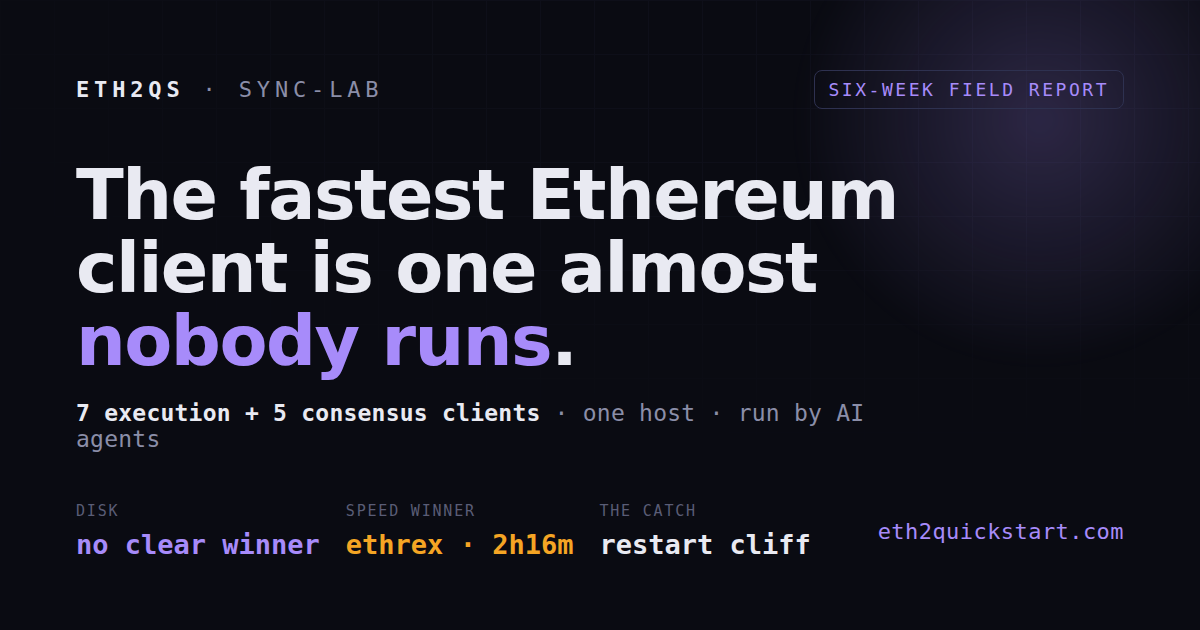
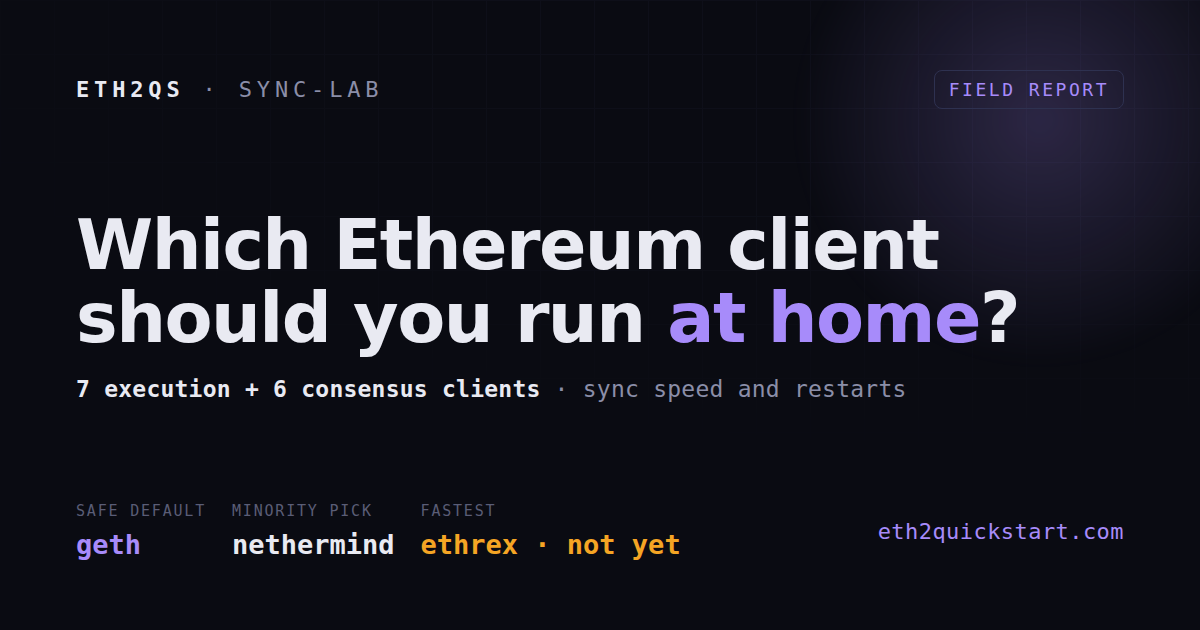
fix(blog): refresh bakeoff OG card and scope the minimal-history disk figure
- Regenerate og-bakeoff.png and ogAlt for the new framing (old card said
  "fastest client nobody runs", six-week, 7+5 clients).
- Short-answer table names the four other consensus clients instead of
  "all five we compared", which read as contradicting the intro's six.
- Minimal-history nethermind: ~250-280 GiB right after sync, ~345 GiB
  54 days later (2026-09-26 du of the live node); recorded in the arbiter
  and mirrored in CLIENT_BAKEOFF_BLOG.md.

diff --git a/frontend/app/blog/ethereum-client-bakeoff/page.tsx b/frontend/app/blog/ethereum-client-bakeoff/page.tsx
@@ -59,11 +59,11 @@ export default function EthereumClientBakeoffPage() {
                 <tr>
                   <td className="py-3 align-top text-muted-foreground">A less common client, or a smaller disk</td>
                   <td className="py-3 align-top text-muted-foreground"><strong className="text-foreground">nethermind</strong></td>
-                  <td className="py-3 align-top text-muted-foreground">Recovered from every restart gap we tried (with full history on). The installer&apos;s default setup is ~250–280 GiB right after sync.</td>
+                  <td className="py-3 align-top text-muted-foreground">Recovered from every restart gap we tried (with full history on). The installer&apos;s default setup used ~250–280 GiB right after sync and ~345 GiB 54 days later.</td>
                 </tr>
                 <tr>
                   <td className="py-3 align-top text-muted-foreground">A consensus client</td>
-                  <td className="py-3 align-top text-muted-foreground"><strong className="text-foreground">lighthouse</strong> (or any of the five we compared)</td>
+                  <td className="py-3 align-top text-muted-foreground"><strong className="text-foreground">lighthouse</strong> (or lodestar, grandine, teku, nimbus)</td>
                   <td className="py-3 align-top text-muted-foreground">All five synced in minutes without crashing. They differ mainly in disk use.</td>
                 </tr>
                 <tr>
@@ -196,7 +196,7 @@ export default function EthereumClientBakeoffPage() {
                 </tr>
                 <tr>
                   <td className="py-3 align-top text-muted-foreground">nethermind, minimal history (installer default)</td>
-                  <td className="py-3 align-top text-muted-foreground">~250–280 GiB right after sync</td>
+                  <td className="py-3 align-top text-muted-foreground">~250–280 GiB right after sync; ~345 GiB after 54 days</td>
                   <td className="py-3 align-top text-muted-foreground">no old blocks or receipts</td>
                 </tr>
               </tbody>

diff --git a/frontend/lib/articles.ts b/frontend/lib/articles.ts
@@ -43,7 +43,7 @@ export const ARTICLES: Article[] = [
       'Which Ethereum clients are worth running at home? We tried seven execution and six consensus clients on one machine. Short answer: geth or nethermind, with lighthouse.',
     eyebrow: 'Client research',
     ogImage: '/og-bakeoff.png',
-    ogAlt: 'The fastest Ethereum client is one almost nobody runs — a six-week client bake-off',
+    ogAlt: 'Which Ethereum client should you run at home? Seven execution and six consensus clients compared on sync speed and restarts',
     headline: 'Ethereum Client Bake-off',
     datePublished: '2026-07-19',
     dateModified: '2026-10-08',

diff --git a/frontend/scripts/gen-og-cards.py b/frontend/scripts/gen-og-cards.py
@@ -97,10 +97,10 @@ VARIANTS = {
         '<b>7 execution + 5 consensus clients</b> · one host · run by AI agents',
         [("Disk", "no clear winner", "acc"), ("Speed winner", "ethrex · 2h16m", "sig"), ("The catch", "restart cliff", "")]),
     "og-bakeoff": card(
-        "Six-week field report",
-        'The fastest Ethereum client is one almost <span class="hot">nobody runs</span>.',
-        '<b>7 execution + 5 consensus clients</b> · one host · run by AI agents',
-        [("Disk", "no clear winner", "acc"), ("Speed winner", "ethrex · 2h16m", "sig"), ("The catch", "restart cliff", "")]),
+        "Field report",
+        'Which Ethereum client should you run <span class="hot">at home</span>?',
+        '<b>7 execution + 6 consensus clients</b> · sync speed and restarts',
+        [("Safe default", "geth", "acc"), ("Minority pick", "nethermind", ""), ("Fastest", "ethrex · not yet", "sig")]),
     "og-how-we-tested": card(
         "Methodology",
         'How we ran a six-week bake-off <span class="hot">with Claude</span>.',

diff --git a/docs/CLIENT_BAKEOFF_RESULTS.md b/docs/CLIENT_BAKEOFF_RESULTS.md
@@ -84,7 +84,7 @@ _Complete (run_id `client-bakeoff-stageB-2026-06-23`). Runs were sequential, one
 | geth__prysm | ✅ synced | ~8h28m | **1.13 TiB** — geth 1,245,128,582,247 B + prysm 654,985,849 B | Baseline. snap-sync EL hands prysm an already-validated head, so there is no large optimistic gap to close. fully_synced=yes, no crash. |
 | erigon__prysm | ❌ no-sync | n/a (terminated) | ~1.21 TiB\* — erigon 1,333,017,755,599 B + prysm 1,646,160,347 B | \*Partial, captured at a near-tip **frozen** head — NOT a clean synced datadir. erigon3 OtterSync + checkpoint-synced prysm deadlock: the EL execution head freezes a few thousand blocks behind tip while the beacon stays `is_optimistic=true`; neither side issues the `forkchoiceUpdated` that would close the >96-block backward-download gap. Raising the CL CPU cap 200%→600% advanced the head ~5k blocks then re-froze — confirming a genuine gap-close deadlock, not resource starvation. Terminated per operator decision ("record no-sync, move on"). See artifact `findings.md`. |
 | reth__prysm | ⏳ capped (72h) | n/a | ~0.98 TiB\* — reth 1,064,695,764,125 B + prysm 12,468,756,540 B | \*Partial — window-capped at Execution stage block 11,970,965/25,395,872 (47% by block count, ~21% gas-weighted; ended 2026-06-28T16:53:20Z). reth `--full` is the only no-snap EL; sequential full block execution too slow to finish in 72h under caps. Clean SIGTERM stop (ExecMainStatus=0), no crash, 578 samples. Footprint recovered from `samples.jsonl` last entry (16:52:46Z) — `disk-final.tsv` absent due to harness capped-path gap (fixed commit `af0d77f`). Extrapolation: at ~21% gas-exec already ~87% of geth's 1.13 TiB; projected final `--full` footprint ~1.1–1.2 TiB. |
-| nethermind__prysm | ✅ synced | ~14.5h (snap) | **~1.06 TiB steady-state** (re-measured 2026-08-01: ~1,088 GiB — state ~226–230 GiB compact flat storage + ~843 GiB post-merge bodies/receipts + ~19 GiB headers/code) — **~251 GiB at snap-sync, before FastBlocks backfilled post-merge history** (268,110,243,338 B at that point) + prysm 1,431,145,921 B | Snap-synced to head 25,428,620, 49 peers, no crash — compact flat-storage STATE (~226–230 GiB) but full post-merge history backfills to ~1.06 TiB — on par with geth. **Update 2026-08-03:** the shipped installer default is now minimal-history (`NETHERMIND_FULL_HISTORY=false`); a fresh sync with the Ancient barriers raised past the pivot lands at ~250–280 GiB (state only, no backfill) — the ~1.06 TiB figure above is the full-history configuration. NOTE: nethermind's FIRST attempt was a 13.3h 0-peer loopback stall (P2P pinned to 127.0.0.1, execution head frozen ~block 4,651 while the beacon looked healthy) — the origin of the "triage is blind to a stalled EL" lesson below. After the installer was fixed to advertise a routable `ExternalIp` (commit `676e4da`), the re-run synced cleanly. |
+| nethermind__prysm | ✅ synced | ~14.5h (snap) | **~1.06 TiB steady-state** (re-measured 2026-08-01: ~1,088 GiB — state ~226–230 GiB compact flat storage + ~843 GiB post-merge bodies/receipts + ~19 GiB headers/code) — **~251 GiB at snap-sync, before FastBlocks backfilled post-merge history** (268,110,243,338 B at that point) + prysm 1,431,145,921 B | Snap-synced to head 25,428,620, 49 peers, no crash — compact flat-storage STATE (~226–230 GiB) but full post-merge history backfills to ~1.06 TiB — on par with geth. **Update 2026-08-03:** the shipped installer default is now minimal-history (`NETHERMIND_FULL_HISTORY=false`); a fresh sync with the Ancient barriers raised past the pivot lands at ~250–280 GiB (state only, no backfill) right after sync; that minimal-history node measured **~345 GiB 54 days later** (2026-09-26 `du`: state ~292 GiB, blocks ~29 GiB, headers ~12 GiB, code ~8 GiB), so the minimal footprint keeps growing. The ~1.06 TiB figure above is the full-history configuration. NOTE: nethermind's FIRST attempt was a 13.3h 0-peer loopback stall (P2P pinned to 127.0.0.1, execution head frozen ~block 4,651 while the beacon looked healthy) — the origin of the "triage is blind to a stalled EL" lesson below. After the installer was fixed to advertise a routable `ExternalIp` (commit `676e4da`), the re-run synced cleanly. |
 | besu__prysm | ✅ synced; pruned re-run abandoned | ~19h18m | **~1.08 TiB** — besu 1,189,836,723,674 B + prysm 1,682,488,084 B | **besu synced successfully.** The 2026-06-30 run snap-synced cleanly to a fully validating head (~50 peers, prysm `is_optimistic=false` at 2026-07-01T01:37:10Z → ~19h18m, fully_synced=yes) — a working, production-viable node. Its **~1.08 TiB is the same ~1.1 TiB magnitude** as geth (1.13 TiB) and nethermind (~1.06 TiB) once they carry full post-merge history — comparable, not an outlier; geth's 1.13 TiB is itself the `--history.chain postmerge` floor, not a pruned-smaller number besu skipped. A follow-up re-run (`history-expiry-prune=true`, 2026-07-04) to see if a further prune lever shrinks it **deadlocked twice and was abandoned** (operator: "Stop; accept limitation note", 2026-07-05 — see the besu snap-sync deadlock gotcha below; the deadlock trigger was a stale-CL stall, **not** a besu sync failure). besu **did** sync; its open issue is that snap sync is **fragile to a prolonged CL outage**, not its disk size. |
 | ethrex__prysm | ✅ synced | ~2h16m (snap, v19.0.0); a later re-sync (steady-state run, v22.0.0, below) took 4h09m56s | **~470–476 GiB steady-state plateau** (drifting 470.2 → 475.5 GiB over ~42 hours) — **~286 GiB at first sync** (306,564,007,339 B, 2026-07-06); **~300 GiB at sync this run** (2026-07-28, 4h09m56s) | Snap-synced to a fully validating head in ~2h16m — **fastest EL sync in the field.** 50 peers throughout. 1 automatic stale-pivot update (block 25,469,233→25,469,696) self-healed in ~4 min with no intervention (ethrex clock-based detection, as designed). No crash (service_crash_observed=no, install_exit_code=0). Footprint is un-pruned and **NOT full-history** — ethrex serves ~no history (`eth_getBlockByNumber` returns `null` below head; verified 2026-07-06 and again 2026-07-29). Its datadir **plateaus, it does not grow unbounded**: run `client-bakeoff-ethrex-steadystate-2026-07-28` (NRestarts=0) climbed +43 GiB/hr during post-sync settling (0→465 GiB, 19:02→05:48Z), then growth collapsed ~300× to +0.13 GiB/hr and held a slow drift for ~42 hours (2026-07-29T06:18Z→2026-07-31T00:03Z, 168 samples, 470.2 → 475.5 GiB — RocksDB compaction; `sync_distance=0`, `is_optimistic=false` throughout; see `artifacts/client-bakeoff-ethrex-steadystate-2026-07-28/ethrex__prysm/ethrex-steadystate-trend.tsv`). The earlier ~467 GiB reading (2026-07-06) was this same plateau caught mid-climb — that run was wiped believing it was still growing, when in fact it was within ~1% of where it actually settles. **This is not a disk win:** ethrex is smaller only because it retains no history — a no-history node, not a pruned-comparable one — so footprint here tracks retention config, not client efficiency. It isn't even the smallest on a state-only basis: nethermind's state alone is ~226–230 GiB, roughly half ethrex's entire ~475 GiB (not a perfectly controlled comparison — ethrex's total also includes headers/recent blocks, and the two clients use different state encodings). At +0.13 GiB/hr, adding 0.1 TiB would take ~33 days (and 1 TiB would take ~328 days); the ~42h drift window demonstrates the post-sync settling plateau, not proof state never grows long-term. See client limitations and gotchas for the restart cliff (unchanged, still its main operational drawback) and what serving no history costs a public RPC. First sync ran v19.0.0; the 2026-07-28 steady-state run ran v22.0.0 (`ethrex/v22.0.0-HEAD-aa6c5f04750595…`). fully_synced=yes, hit_72h_cap=no. |
 

diff --git a/docs/CLIENT_BAKEOFF_BLOG.md b/docs/CLIENT_BAKEOFF_BLOG.md
@@ -62,7 +62,7 @@ A knock-on benefit of that gate: it forced us to *empirically settle* config que
 
 Nethermind's synced-tip snapshot read ~251 GiB, well below geth's ~1.13 TiB — but that number was taken before nethermind's FastBlocks finished backfilling post-merge block bodies and receipts. Its steady-state datadir (re-measured 2026-08-01) is **~1.06 TiB (~1,088 GiB)**: state ~226–230 GiB (its compact Halite/Paprika flat storage) plus ~843 GiB of post-merge bodies and receipts plus ~19 GiB of headers and code, the same history geth keeps under `--history.chain postmerge`. Under matched history-retention configs, nethermind and geth are on par:
 
-**Update 2026-08-03:** that ~1.06 TiB figure is the full-history configuration. The shipped installer now defaults nethermind to minimal-history (`NETHERMIND_FULL_HISTORY=false`) → **~250–280 GiB, with no historical RPC**; set `=true` on a fresh/rebuilt datadir to restore the ~1.06 TiB full-history number above.
+**Update 2026-08-03:** that ~1.06 TiB figure is the full-history configuration. The shipped installer now defaults nethermind to minimal-history (`NETHERMIND_FULL_HISTORY=false`) → **~250–280 GiB right after sync, with no historical RPC**; the same node measured ~345 GiB 54 days later (2026-09-26), so size for growth; set `=true` on a fresh/rebuilt datadir to restore the ~1.06 TiB full-history number above.
 
 | EL | Footprint (full post-merge history) | Sync time | Mode | Mainnet share |
 |----|------|------|------|------|
